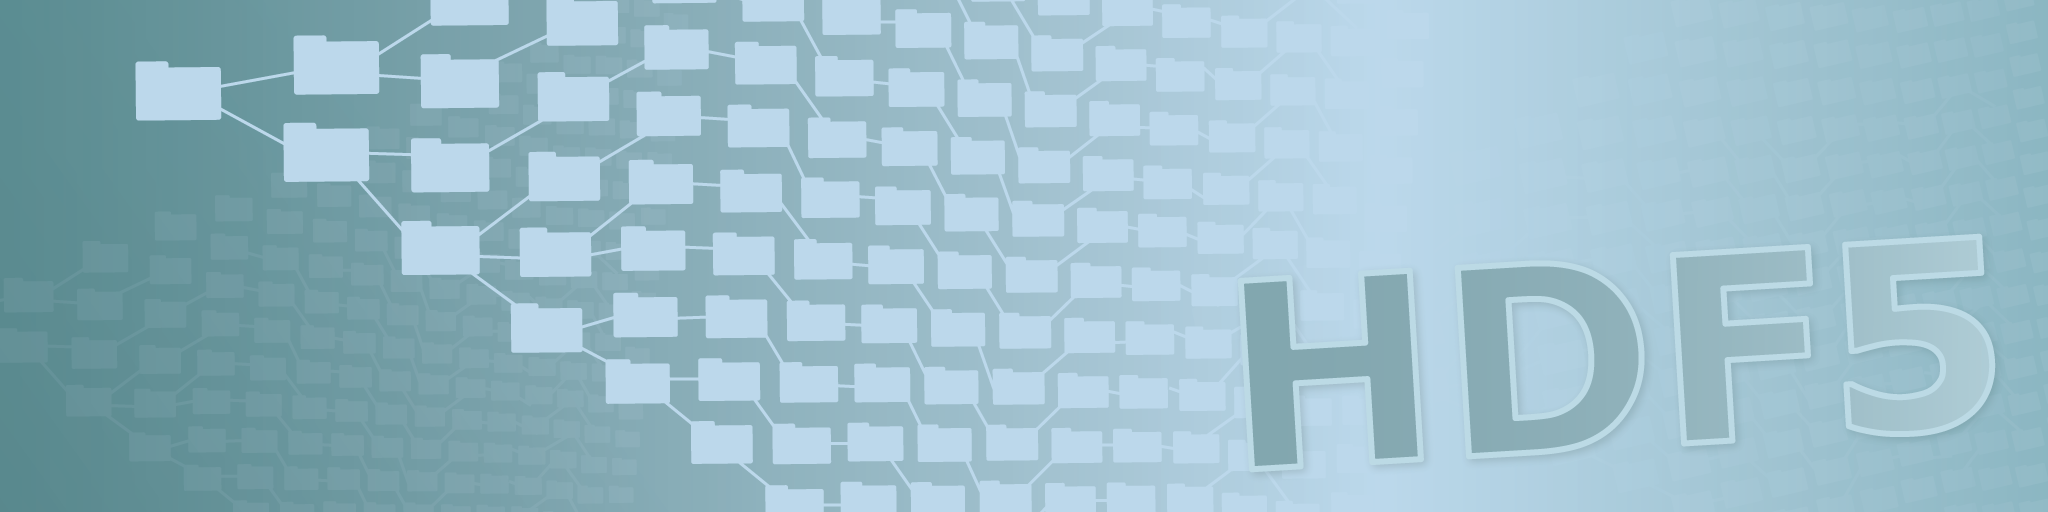
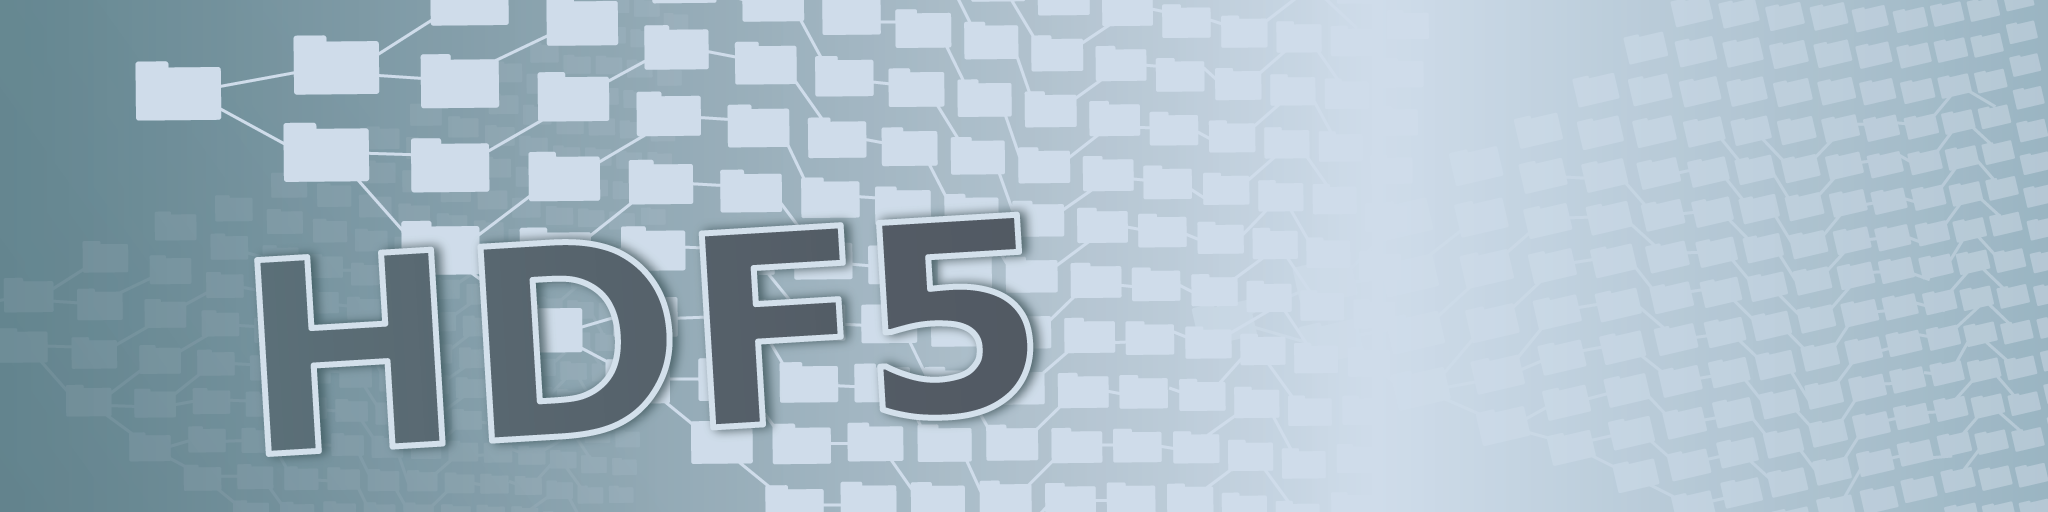
new images uploaded HDF5

Changed region(s): [[0.5938, 0.0, 1.0, 1.0], [0.125, 0.4062, 0.5312, 0.9062]]

diff --git a/_posts/2014-11-05-R-Hierarchical-Data-Format-HDF5.md b/_posts/2014-11-05-R-Hierarchical-Data-Format-HDF5.md
@@ -5,14 +5,15 @@ date:   2014-11-05 20:49:52
 authors: Ted Hart - Adapted from Software Carpentry Materials by Leah A. Wasser
 categories: [Hierarchical Data Formats]
 tags : []
-description: "This activity will Introduce the HDF5 file format.."
+description: "Learn more about the HDF5 file format by creating a file from scratch in R. Explore an existing file and plot some data."
 code1: 
 image:
-  feature: textur2_FieldWork.jpg
-  credit: Ordway Swisher Biological Station, NEON, thx to Courtney Meier
+  feature: hierarchy_folder_purple.png
+  credit: The Artistry of Colin Williams, NEON
   creditlink: http://www.neoninc.org
 permalink: /HDF5/HDF5-In-R/
 ---
+
 <section id="table-of-contents" class="toc">
   <header>
     <h3 >Contents</h3>
@@ -23,58 +24,70 @@ permalink: /HDF5/HDF5-In-R/
 </div>
 </section><!-- /#table-of-contents -->
 
+**R Skill Level:** intermediate
 
-    #not sure what this is
-    source("../chunk_options.R")
- 
+##Objectives
+After completing this activity, you will:
 
-**Goals**
+1. Understand how HDF5 files can be created and organized in R supporting increased understanding of the file format and it's potential to store large, heterogeneous file formats. 
+2. Understand the basics of manipulating big data sets using indexing, loops, and `dplyr`.
+3. Understand the 3 key HDF5 data types: **file**, **groups** and **datasets**.
+3. Be exposed to and learn how to apply a variety of data manipulation tasks including identifying data types given a new dataset, string parsing, and working with / formatting date information.
 
-1. Teach students about HDF5, a common data format used by many disciplines (also the backbone of NetCDF4)
-2. Show students a real use case manipulating big data sets using indexing, loops, and `dplyr`
-3. Reinforce to students in a variety of data munging type tasks such as understanding data types, string parsing, and working with dates
+The HDF5 file can store large, heterogeneous data sets that include self-describing metadata. It supports compression and parallel I/O. It also supports efficient data slicing, or extraction of particular parts of a dataset; thus, if you don't have to read large files   read into the computers memory / RAM to work with them - a real benefit to languages like `R`. HDF5 also is supporting in many programming languages including `R` and `Python`. When HDF5 files contain spatial data, they can also be read directly into GIS programs such as `QGiS`.  
 
+To be able to access HDF5 files, you'll need to first install the base [HDF5 libraries](http://www.hdfgroup.org/HDF5/release/obtain5.html#obtain). It might also be useful to install [HDFview](http://www.hdfgroup.org/products/java/hdfview/) which will allow you to explore the contents of an HDF5 file visually using a graphic interface. 
 
-HDF5 is a format that allows the storage of large heterogeneous data sets with self-describing metadata.  It supports compression, parallel I/O, and easy data slicing which means large files don't need to be completely read into RAM (a real benefit to `R`).  Plus it has wide support in the many programming languages, `R` included.  To be able to access HDF5 files, you'll need to first install the base [HDF5 libraries](http://www.hdfgroup.org/HDF5/release/obtain5.html#obtain).  It might also be useful to install [HDFview](http://www.hdfgroup.org/products/java/hdfview/) which will allow you to explore the contents of an HDF5 file easily. HDF5 as a format can essentially be thought of as a file system that you load slices of at a time.  HDF5 files consists of groups (directories) and datasets (files).  The dataset holds the actual data, but the groups provide structure to that data, as you'll see in our example.
-
-
-The package we'll be using is `rhdf5` which is part of the [Bioconductor](http://www.bioconductor.org) suite of `R` packages
-
+The package we'll be using is `rhdf5` which is part of the [Bioconductor](http://www.bioconductor.org) suite of `R` packages. If you haven't installed this package before, you can use the first two lines of code below to install. Then use the library command to call the `rhdf5` library.
 
 	#source("http://bioconductor.org/biocLite.R")
 	#biocLite("rhdf5")
 	library("rhdf5")
 
 ##Review
-The HDF5 format is in essence, a self-contained directory structure. In HDF5 files though "directories" are called "groups", and "files" are called "datasets". Each element in an hdf5 file can have metadata attached to it making HDF5 files "self-describing".
+The HDF5 format is a self-contained directory structure. In HDF5 files though "directories" are called "**groups**" and "**files**" are called "datasets". Each element in an hdf5 file can have metadata attached to it making HDF5 files "self-describing".
+
 
 ## Let's Create a File
 
-Let's start by outlining the file we want to create.  We'll build a file called "sensorData.h5", which will hold data for a set of sensors at three different locations. Each sensor takes three replicates of two different measurements every minute. 
+Let's start by outlining the structure for the file we want to create.  We'll build a file called "sensorData.h5", which will hold data for a set of sensors at three different locations. Each sensor takes three replicates of two different measurements every minute. 
 
-HDF5 allows us to organize and store data in many ways. Therefore we need to decide what type of structure is ideally suited to our data. To structure the HDF5 file, we'll start with a root group. Within that group, we will create a group for each sensor location. Within that group, we will create another group, which is sensor type, and then a matrix of time x replicate within that group.  
+HDF5 allows us to organize and store data in many ways. Therefore we need to decide what type of structure is ideally suited to our data before creating the HDF5 file. To structure the HDF5 file, we'll start at the file level. We will create a group for each sensor location. Within that group, we will create another group, which is sensor type, and then a matrix of time x replicate within that group.
 
+So it will look something like this:
+
+- HDF5 FILE 
+	- Location_One (Group)
+		- Sensor Type (Group)
+			- Actual Data (Dataset)
+	- Location_Two  (Group)
+		- Sensor Type (Group)
+			- Actual Data (Dataset)
+	- Location_Three  (Group)
+		- Sensor Type (Group)
+			- Actual Data (Dataset)
+   
 So let's create the file and call it "sensorData.h5" and then add our groups. 
 
-###r Create file}
+###r Create file
 	#create hdf5 file
 	h5createFile("sensorData.h5")
 	h5createGroup("sensorData.h5", "location1")
 
 The processing of creating nested groups can be simplified with loops, and nested loops.
 
-	#create loops
+	#create loops that will populate 2 additional location "groups" in our HDF5 file
 	l1 <- c("location2","location3")
 	for(i in 1:length(l1)){
   	  h5createGroup("sensorData.h5", l1[i])
 	}
 
-Now let's checkout our file and see what it looks like, we'll use `h5ls()` to do this.
+Now let's view the structure of our HDF5 file. We'll use the `h5ls()` function to do this.
 
-	#r checkout file
+	#r view HDF5 File Structure
 	h5ls("sensorData.h5")
 
-Our group structure is now set-up, but it doesn't contain any data. Let's simulate some data pretending that each sensor took replicate measurements for 100 minutes. We'll add a 100 x 3 matrix (called a dataset in HDF5 terminology) of simulated data to each of our groups. We'll use loops to create these matrices and then paste them into the hdf5 file as datasets.
+Our group structure that will contain the location information is now set-up. However, it doesn't contain any data. Let's simulate some data pretending that each sensor took replicate measurements for 100 minutes. We'll add a 100 x 3 matrix that will be stored as a **dataset** in our  HDF5 file. We'll populate this dataset with simulated data for each of our groups. We'll use loops to create these matrices and then paste them into the hdf5 file as datasets.
 
 	#r add data
 	for(i in 1:3){
@@ -93,7 +106,7 @@ is writing that matrix to a dataset in our hdf file (sensorData.h5). `file = "se
 
 So now let's look at the structure of our file.  Notice that the `h5ls()` command tells us what each element in the file is, group or dataset. It also provides the dimenensions of the datasets and types of the data. In this case, the  precipitation and temperature datasets are of type 'float' and of dimensions 100 x 3.
 
-[More about float vs interger here](http://www.burns-stat.com/documents/tutorials/impatient-r/more-r-key-objects/more-r-numbers/#twonum)
+<a href="http://www.burns-stat.com/documents/tutorials/impatient-r/more-r-key-objects/more-r-numbers/#twonum" target="_blank">More about float vs integer data here</a>
 
 	#r ls again
 	h5ls("sensorData.h5")
@@ -108,51 +121,51 @@ HDF5 files can hold mixed types as well.  Each data set can be of it's own type 
 	h5write(p1,file = "sensorData.h5","location1/precip",write.attributes=T)
 
 
-Now, we've successfully created an HDF5 file! We can use a different set of functions to quickly read our data back out. If `read.attributes` is set to `TRUE` then we can see the metadata about the matrix. Furthermore, we can chose to read in a subset, like the first 10 rows of data, rather than loading the entire dataset into R.
+Now, we've successfully created an HDF5 file! We can use a different set of functions to quickly read our data back out. If `read.attributes` is set to `TRUE` then we can also see the metadata about the matrix. Furthermore, we can chose to read in a subset, like the first 10 rows of data, rather than loading the entire dataset into R.
  
-	#r read all data
+	#r read in all data
 	l1p1 <- h5read("sensorData.h5","location1/precip",read.attributes=T)
-	#read in first 10 lines
+
+	#read in first 10 lines of the data
 	l1p1s <- h5read("sensorData.h5","location1/precip",read.attributes = T,index = list(1:10,NULL))
 
-### End Section One ###
+### **************** End Section One **************** ###
  
 ##P2. Working with Real World Data
 Next we'll work with a real world data file. We will work with  [flux tower tempearture data](http://neoninc.org/science-design/collection-methods/flux-tower-measurements) collected by the [NEON project](http://www.neoninc.org). NEON will provide 30 years of free ecological data.
 
-In this case, we'll examine this file as if we knew nothing about it. We will view it's structure, extract metadata and vizualize the contents of the files. The goal of the lesson is to use loops and custom functions to quickly examine data with a complex nested structure using advanced tools like `dplyr`.
+In this case, we'll examine this file as if we knew nothing about it. We will view it's structure, extract metadata and visualize the contents of the files. The goal of the lesson is to use loops and custom functions to quickly examine data with a complex nested structure using advanced tools like `dplyr`.
 
 ### Examine file contents
 
-Often we won't know the structure of an HDF5 file that we receive. In this case, we'll need to start by explore the underlying structure. Let's load up a NEON tower data file and examine it's contents using `h5ls`.
+Often we won't know the structure of an HDF5 file that we receive. In this case, we'll need to start by explore the underlying structure. Let's load up a NEON flux tower data file and examine its contents using `h5ls`.
 
-	#r load file}
-	f <- "data/fiuTestFile.hdf5"
+	#r load file
+	#NOTE: be sure to adjust the path to match your file structure!
+	f <- "data/NEON_TowerDataD3_D10.hdf5"
 	h5ls(f,all=T)
 
-Note that `h5ls` returns the full, hierarchical file structure including the group name, the name of a particular node (which may be a group), the type, class and the dimensions of the object.  In this case because the class of the groups is compound (meaning there are mixed data types), the dimensions are returned as the number of elements.
+Note that `h5ls` returns the full, hierarchical file structure including the group name, the name of a particular node (which may be a group), the type, class and the dimensions of the object.  In this case the class of the groups is compound. Compound class means there are mixed data types contained within that group. The dimensions are returned as the number of elements for compound groups.
 
-One major benefit of HDF5 files is the ability to subset and slice out parts of the file. Let's extract some temperature data, collected at the Ordway Swisher Biological Station, [(A NEON Field Site)](http://neoninc.org/science-design/field-sites/ordway-swisher-biological-station) and plot it.
+One major benefit of HDF5 files is the ability to subset and slice out parts of the file. Let's extract some temperature data, collected at the Ordway Swisher Biological Station, <a href="http://neoninc.org/science-design/field-sites/ordway-swisher-biological-station" target="_blank">A NEON Field Site</a> and plot it.
 
 Now remember, we are dealing with **hierarchical data**. In this case we have a nested group and dataset structure. Below, we will extract temperature data which is located within the following structure:
  Domain_03 --> Ord --> min_1 --> boom_1 -->temperature
  
 Take note that there are 4 groups and one dataset called temperature in this part of the hdf5 file.
 
-	#r in temperature data
+	#read in temperature data
 	temp <- h5read(f,"/Domain_03/Ord/min_1/boom_1/temperature")
+	#view the first few lines of the data 
 	head(temp)
 	plot(temp$mean,type='l')
 	
 
-![image](../../images/TempData.png)
+![image]({{ site.baseurl }}/images/TempData.png)
 
 ### Extracting metadata
 Another advantage of HDF5 is that it's self describing. This means that metadata are embedded in the file. Metadata can be associated with every group, dataset and even the file itself. 
 
-**The best way to access HDF5 metadata is via the low level HDF5 API**
- **(TED's NOTE: submitted a pull request to the package and a new fxn called 'h5readAttributes(file, name)' is now in the DEV version of rhdf5, so that may be in the latest version)**
- 
 The art of extracting metdata in R is not yet refined. Thus to do it effectively, we need to extract attributes individually. Some examples of doing this are below. 
 
 	#r extracting metadata from an HDF5 file
@@ -160,23 +173,29 @@ The art of extracting metdata in R is not yet refined. Thus to do it effectively
 	out <- H5Fopen(f)
 	# open a group
 	g <- H5Gopen(out,'/Domain_03/Ord')
+	#extract the first attribute for that group (g,1)
 	a <- H5Aopen_by_idx(g,1)
+	#get the name of that attribute
 	H5Aget_name(a)
 
-** Be sure to close all files that you opened!
+	#get the value for the attribute (in this case it's the site name)
+	aval <- H5Aread(a)
+	aval
+
+** Be sure to close all elements that you opened!
 
 	H5Aclose(a)
 	H5Gclose(g)
 	H5Fclose(out)
 
 
-THe above method to extract metadata is tedious bceause it requires individual commands that query parts of our dataset. An alternative is to create a  function that extracts all of the metadata from any group. Let's do that!
+The above method to extract metadata is tedious because it requires individual commands that query parts of our dataset. An alternative is to create a  function that extracts all of the metadata from any group. Let's do that!
 
-##Create Metadata Extraction Function
+###Create Metadata Extraction Function
 
-# this code doesn't work as the h5read part fails... need to followup with ted. 
-
-	#r metdata function
+	#Create metadata extraction function
+	#note: per Ted Hart, this code may be ingested into the rhdf5 
+    #library in the future. as of 11/2014 it wasn't there yet.
 
 	h5metadata <- function(fileN, group, natt){
   	 out <- H5Fopen(fileN)
@@ -190,71 +209,111 @@ THe above method to extract metadata is tedious bceause it requires individual c
     	  H5Aclose(a)
   	 }
   	 
-  	H5Gclose(g)
-  	H5Fclose(out)
-  	return(output)
+	H5Gclose(g)
+	H5Fclose(out)
+	return(output)
 	}
 
-Now we can combine the information we get from `h5ls` with our metadata extraction function. This means we could loop through the whole file and extract metadata for every element.
+Now we can combine the information we get from `h5ls` with our metadata extraction function. This means we could loop through the whole file and extract metadata for every element if we so desired.
 
 	#r extract metadata}
 	fiu_struct <- h5ls(f,all=T)
 	g <- paste(fiu_struct[2,1:2],collapse="/")
 	h5metadata(f,g,fiu_struct$num_attrs[2])
-	
-	
-	
 
-### Visualizing temperature differences
+### ******* End Part 2 ********	
 
-Now, let's say we want to compare temeratures across sites, how can we build a dataframe to do this?  We'll use our knowledge of the structure of the HDF5 to easily loop through the file and build a new data frame.  Let's look at Domain 3, 1 minute series across all the booms.
 
-	#r compare booms}
+## P3. Visualizing datasets in a HDF5 File
+
+This particular dataset contains temperature data collected using different sensors across for multiple field sites and through time. What is we wanted to create a plot that compared data across sensors or sites? 
+
+##P3a. Data from different sensors at one site
+
+To compare data, we'll first need to loop through the HDF5 file and build a new data frame that contains temperature information over time, for each sensor or site. Let's start by comparing temperature data collected by sensor located at different heights (on different boom arms on the tower), and averaged every 1 minute for the NEON Domain 3 site, Ordway Swisher Biological Station located in Florida.
+
+	# Compare temperature data across booms 
 	library(dplyr)
 	library(ggplot2)
 	# Set the path string
 	s <- "/Domain_03/Ord/min_1"
 
-### Grab the paths
+### Grab the paths to the data we want to use
+
 	paths <- fiu_struct %.% filter(grepl(s,group), grepl("DATA",otype)) %.% group_by(group) %.% summarise(path = paste(group,name,sep="/"))
 	ord_temp <- data.frame()
-for(i in paths$path){
-  boom <-  strsplit(i,"/")[[1]][5]
-  dat <- h5read(f,i)
-  dat$boom <- rep(boom,dim(dat)[1])
-  ord_temp <- rbind(ord_temp,dat)
-}
-### Dates aren't dates though, so let's fix that
-ord_temp$date <- as.POSIXct(ord_temp$date,format = "%Y-%m-%d %H:%M:%S", tz = "EST")
-## Now we can make our plot!
-ggplot(ord_temp,aes(x=date,y=mean,group=boom,colour=boom))+geom_path()+ylab("Mean temperature") + xlab("Date")+theme_bw()+ggtitle("3 Days of temperature data at Ordway Swisher")
-```
+	
 
-Now, what if we want to compare temperatures at our two different sites? Well let's do that but this time we'll compare 30 minute averages. We'll need to change up our search strings a bit. but we can still use most of the code we just build
 
-```{r Compare sites}
+Now, the above code is rather complex. It uses the powerful dplyr libraries to filter things down. Let's break down what the first line is doing. 
 
-### We want all sites in the minute 30 so this will help us prune our list
+
+
+- We defined `fiu_struct` earlier - that's just the structure of our HDF5 file that we got using `h5ls`.
+- `grepl` looks for a pattern. type `help(grepl)`. The pattern we are looking for is s which we defined earlier as "/Domain_03/Ord/min_1". Type `s` into the console to see what comes up. 
+
+So let's put this together. Type, `fiu_struct %.% filter(grepl(s,group))` into the console. Notice that you get a list of both datasets and groups for the Domain_03 site. But we just want the datasets as that is where our information is stored. The groups  just store the data - like a folder would on our computer. We wamt the files.
+
+- The second part of the filter `grepl("DATA",otype))` tells R to look for objects in the file that contain the word "data". Run this: `fiu_struct %.% filter(grepl(s,group), grepl("DATA",otype))` in the console and notice that you just get the elements in the file that are both for the Ordway site AND are of type "dataset".
+- The last part appends the group name (boom_1, boom_2, etc) and the dataset name (temperature in this case) to the path.  `group_by(group) %.% summarise(path = paste(group,name,sep="/"))`
+
+
+	for(i in paths$path){
+	  boom <-  strsplit(i,"/")[[1]][5]
+	  dat <- h5read(f,i)
+	  dat$boom <- rep(boom,dim(dat)[1])
+	  ord_temp <- rbind(ord_temp,dat)
+	}
+
+The loop above iterates through the file, grabs the temperature data for each boom in the 1 minute data series for Ordway. it also adds the boom name to the end of the data.frame. Let's break this loop down. 
+
+- First we have `for i in path$path`. Remember that we have 5 "paths" total - one for each boom: booms 1,2,3,5 and the tower top (boom 4 doesn't have a temperature sensor on it).
+- `boom <-  strsplit(i,"/")[[1]][5]` identify the name of the boom for iteration i. 
+- read in the data from our hdf5 file (f) for iteration i (whichever iteration in the loop we are on) `dat <- h5read(f,i)`.
+-  `dat$boom <- rep(boom,dim(dat)[1])` -- add the boom name as the final column in the dataset - column named "boom"
+-  `ord_temp <- rbind(ord_temp,dat)` append dataset to the end of the data.frame called ord_temp
+
+    EXTRA CREDIT: Modify the loop above so that it added both the boom name, the site name and the data type (1 minute) as columns in our data frame.
+
+### Cleaning Up Dates
+As imported, the dates field in our data frame aren't in "date format". we need to tell R to format the information as a date. This will ensure that the plot that we create has dates labeled correctly. Let's dig in:
+
+	ord_temp$date <- as.POSIXct(ord_temp$date,format = "%Y-%m-%d %H:%M:%S", tz = "EST")
+
+Now we can make our plot of temperature for all booms on the tower!
+
+	ggplot(ord_temp,aes(x=date,y=mean,group=boom,colour=boom))+geom_path()+ylab("Mean temperature") + xlab("Date")+theme_bw()+ggtitle("3 Days of temperature data at Ordway Swisher")
+
+##P3a. Data from different sites
+
+Now, what if we want to compare temperatures at our two different sites? Well let's do that but this time we'll compare 30 minute averages. We'll need to modify our search strings a bit. Bbut we can still re-use most of the code we just built.
+
+First, let's extract all 30 minute averaged data, for all sites.
+
 	s <- "min_30"
-### Grab the paths
+	# Grab the paths for all sites, 30 minute averaged data
 	paths <- fiu_struct %.% filter(grepl(s,group), grepl("DATA",otype)) %.% group_by(group) %.% summarise(path = paste(group,name,sep="/"))
-temp_30 <- data.frame()
-for(i in paths$path){
-  boom <-  strsplit(i,"/")[[1]][5]
-  site <- strsplit(i,"/")[[1]][3]
-  dat <- h5read(f,i)
-  dat$boom <- rep(boom,dim(dat)[1])
-  dat$site <- rep(site,dim(dat)[1])
- temp_30 <- rbind(temp_30,dat)
-}
 
-### Dates aren't dates though, so let's fix that
+	temp_30 <- data.frame()
+	for(i in paths$path){
+	  boom <-  strsplit(i,"/")[[1]][5]
+	  site <- strsplit(i,"/")[[1]][3]
+	  dat <- h5read(f,i)
+	  dat$boom <- rep(boom,dim(dat)[1])
+	  dat$site <- rep(site,dim(dat)[1])
+	 temp_30 <- rbind(temp_30,dat)
+	}
+
+	#Assign the date field to a "date" format in R
 	temp_30$date <- as.POSIXct(temp_30$date,format = "%Y-%m-%d %H:%M:%S")
 
 	temp30_sum <- temp_30 %.% group_by(date,site) %.% summarise(mean = mean(mean))
+	
+	#Create plot!
 	ggplot(temp30_sum,aes(x=date,y=mean,group=site,colour=site)) + geom_path()+ylab("Mean temperature") + xlab("Date")+theme_bw()+ggtitle("Comparison of Ordway-Swisher(FL) vs Sterling(CO)")
 
 
 
+> Extra Credit: Create a plot of both sites with all booms at each site on the plot.
 
 
